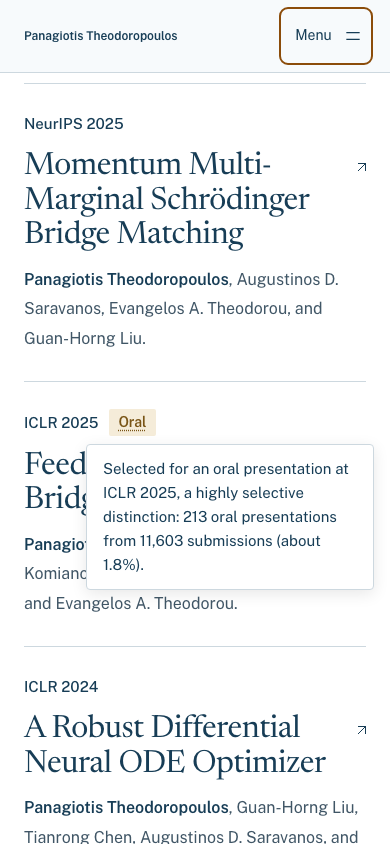
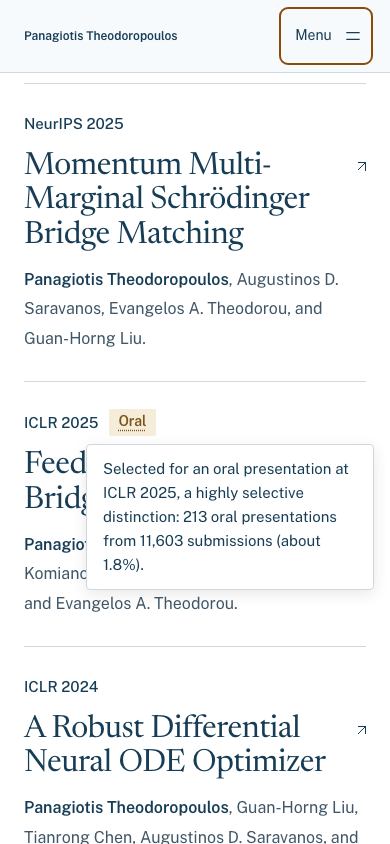
Limit header navigation to four main sections

diff --git a/tests/portfolio.spec.js b/tests/portfolio.spec.js
@@ -7,7 +7,11 @@ const original = JSON.parse(readFileSync(new URL('./fixtures/original-content.js
 const cvFilename = 'Panagiotis_Theodoropoulos_CV.pdf';
 // The requested CV rename is the only URL change from the original snapshot.
 const currentFilename = file => file === 'MyCV.pdf' ? cvFilename : file;
-const expectedLinks = original.links.map(link => ({ ...link, href: currentFilename(link.href) }));
+// These four header shortcuts were explicitly removed at the owner's request.
+const removedHeaderLinks = new Set(['#service|Service', '#talks|Talks', '#teaching|Teaching', 'MyCV.pdf|CV']);
+const expectedLinks = original.links
+  .filter(link => !removedHeaderLinks.has(`${link.href}|${link.text}`))
+  .map(link => ({ ...link, href: currentFilename(link.href) }));
 const normalize = text => text.replace(/\s+/g, ' ').trim();
 
 async function openMenuIfNeeded(page) {
@@ -31,7 +35,7 @@ test('preserves every original text block, link, metadata field and source asset
     text: a.textContent.replace(/\s+/g, ' ').trim(),
     label: a.getAttribute('aria-label'),
   })));
-  expect(actualLinks).toHaveLength(original.links.length);
+  expect(actualLinks).toHaveLength(expectedLinks.length);
   for (const link of expectedLinks) {
     const matches = items => items.filter(item => item.href === link.href && item.label === link.label &&
       (link.label || item.text === link.text));
@@ -74,7 +78,8 @@ test('all page resources load locally with no browser errors', async ({ page }) 
 test('section links reach visible headings and expose the current location', async ({ page }) => {
   await page.emulateMedia({ reducedMotion: 'reduce' });
   await page.goto('/');
-  for (const id of ['research', 'publications', 'news', 'service', 'talks', 'teaching', 'about']) {
+  await expect(page.locator('.primary-nav a')).toHaveText(['About', 'Research', 'Publications', 'News']);
+  for (const id of ['research', 'publications', 'news', 'about']) {
     await openMenuIfNeeded(page);
     const link = page.locator(`.primary-nav a[href="#${id}"]`);
     await link.click();
@@ -168,6 +173,7 @@ test('all original section destinations exist and the CV remains downloadable', 
   const broken = await page.locator('a[href^="#"]').evaluateAll(links => links
     .filter(a => !document.getElementById(a.hash.slice(1))).map(a => a.hash));
   expect(broken).toEqual([]);
+  for (const id of ['service', 'talks', 'teaching']) await expect(page.locator(`#${id}`)).toHaveCount(1);
   await expect(page.locator('h1')).toHaveCount(1);
   const response = await page.request.get('/' + cvFilename);
   expect(response.headers()['content-type']).toContain('application/pdf');

diff --git a/tests/discovery.spec.js b/tests/discovery.spec.js
@@ -39,7 +39,7 @@ test('profile and publication metadata match the content available without JavaS
   }
 
   const cv = nodes.get(person.subjectOf['@id']);
-  const cvLink = await page.locator('.primary-nav a').filter({ hasText: /^CV$/ }).getAttribute('href');
+  const cvLink = await page.locator('.hero-cv a').getAttribute('href');
   expect(cv['@type']).toBe('DigitalDocument');
   expect(cv.url).toBe(new URL(cvLink, canonical).href);
   expect(cv.about['@id']).toBe(person['@id']);
@@ -82,7 +82,7 @@ test('crawler discovery files lead to the canonical page and a working CV', asyn
   }, await sitemapResponse.text());
   expect(sitemap.error).toBeNull();
   expect(sitemap.namespace).toBe('http://www.sitemaps.org/schemas/sitemap/0.9');
-  const cvLink = await page.locator('.primary-nav a').filter({ hasText: /^CV$/ }).getAttribute('href');
+  const cvLink = await page.locator('.hero-cv a').getAttribute('href');
   expect(sitemap.locations).toEqual([canonical, new URL(cvLink, canonical).href]);
   for (const location of sitemap.locations) {
     const url = new URL(location);

diff --git a/dist/client/index.html b/dist/client/index.html
@@ -166,10 +166,6 @@
           <li><a href="#research">Research</a></li>
           <li><a href="#publications">Publications</a></li>
           <li><a href="#news">News</a></li>
-          <li><a href="#service">Service</a></li>
-          <li><a href="#talks">Talks</a></li>
-          <li><a href="#teaching">Teaching</a></li>
-          <li><a href="Panagiotis_Theodoropoulos_CV.pdf" target="_blank" rel="noopener">CV</a></li>
         </ul>
       </nav>
     </div>

diff --git a/index.html b/index.html
@@ -166,10 +166,6 @@
           <li><a href="#research">Research</a></li>
           <li><a href="#publications">Publications</a></li>
           <li><a href="#news">News</a></li>
-          <li><a href="#service">Service</a></li>
-          <li><a href="#talks">Talks</a></li>
-          <li><a href="#teaching">Teaching</a></li>
-          <li><a href="Panagiotis_Theodoropoulos_CV.pdf" target="_blank" rel="noopener">CV</a></li>
         </ul>
       </nav>
     </div>

diff --git a/assets/site.css b/assets/site.css
@@ -134,13 +134,6 @@ section[id], main { scroll-margin-top: 6.5rem; }
   background: currentColor;
   content: "";
 }
-.nav-list li:last-child a {
-  justify-content: center;
-  min-width: 3.4rem;
-  border: 1px solid var(--line);
-  border-radius: 3px;
-  color: var(--ink);
-}
 .menu-toggle { display: none; }
 
 /* The name and portrait form the opening composition; biography stays readable. */

diff --git a/dist/client/assets/site.css b/dist/client/assets/site.css
@@ -134,13 +134,6 @@ section[id], main { scroll-margin-top: 6.5rem; }
   background: currentColor;
   content: "";
 }
-.nav-list li:last-child a {
-  justify-content: center;
-  min-width: 3.4rem;
-  border: 1px solid var(--line);
-  border-radius: 3px;
-  color: var(--ink);
-}
 .menu-toggle { display: none; }
 
 /* The name and portrait form the opening composition; biography stays readable. */

diff --git a/README.md b/README.md
@@ -19,9 +19,9 @@ The CV is served as `Panagiotis_Theodoropoulos_CV.pdf`, with its contents unchan
 
 ## Content preservation
 
-The source of truth is the root `index.html` and original assets at upstream commit `9041d5a`. The regression fixture records all 65 text blocks, 35 links, metadata, structured data, and SHA-256 hashes of the original CV and images. Tests check the rendered page against that fixture, including link labels, destinations and multiplicity. The requested CV filename change is the only destination exception.
+The source of truth is the root `index.html` and original assets at upstream commit `9041d5a`. The regression fixture records all 65 text blocks, 35 links, metadata, structured data, and SHA-256 hashes of the original CV and images. Tests check the rendered page against that fixture, including link labels, destinations and multiplicity. Explicit exceptions cover the CV filename change, the refreshed footer date, and removal of the Service, Talks, Teaching and CV header shortcuts. Those sections and the hero CV link remain available.
 
-The pre-existing `dist/client` was stale: it lacked the September news item, contained an older version of the CV, and retained a sentence already removed from the root source. The build now synchronizes the distribution with the current source. The root CV is byte-for-byte unchanged; its existing preprint addition now also reaches the built copy. No source biography, publication, author, date, service entry, talk, teaching detail or link was rewritten or removed.
+The pre-existing `dist/client` was stale: it lacked the September news item, contained an older version of the CV, and retained a sentence already removed from the root source. The build now synchronizes the distribution with the current source. The root CV is byte-for-byte unchanged; its existing preprint addition now also reaches the built copy. The biography, publications, authors, service entries, talks, teaching details and external destinations remain intact.
 
 ## Search discovery
 
